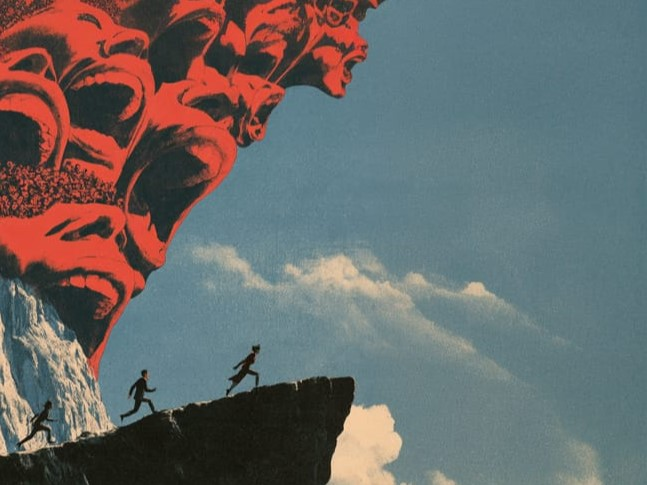
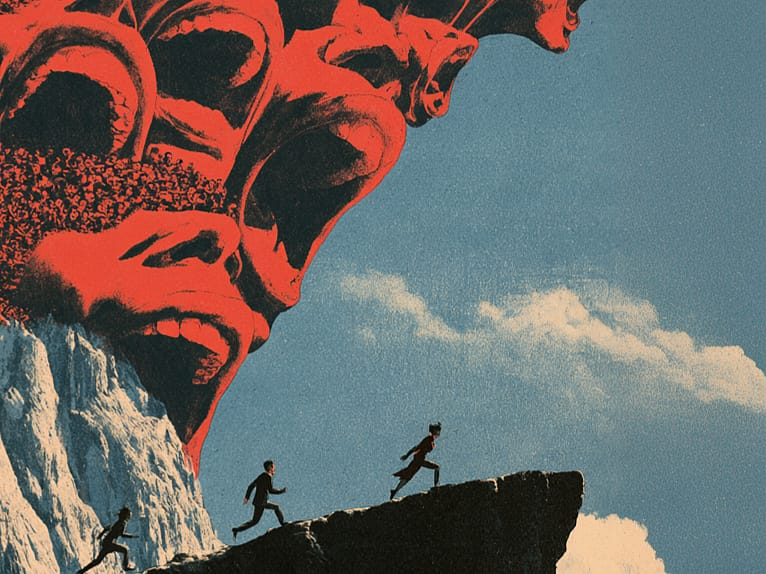
Removed old Eurasia Mobile Cover, Edited Eurasia Description, Adjusted Margins (Spaces between) Zeitecht Entry and Detail Elements

diff --git a/css/style.css b/css/style.css
@@ -294,12 +294,12 @@ body.sparks-page .site-header nav { display: none; }
 @media (max-width: 640px) {
   .entry-list { padding: 20px 20px; }
   .entry { flex-direction: column; padding: 18px 0; border-top-width: 1px; }
-  .entry .thumb, .entry .ph { width: 100%; aspect-ratio: 4/3; margin-bottom: 10px; }
+  .entry .thumb, .entry .ph { width: 100%; aspect-ratio: 4/3; margin-bottom: 0px; }
   .entry .title { font-size: 16.5px; }
-  .entry .desc { font-size: 12px; margin-top: 7px; }
+  .entry .desc { font-size: 12px; margin-top: 15px; }
   .entry .meta { font-weight: bold; font-size: 12px; margin-top: 9px; }
   .entry-detail { font-weight: bold; font-size: 12px; margin-top: 9px;}
-  .entry .link { font-style: italic; font-size: 12px; margin-top: 7px; }
+  .entry .link { font-style: italic; font-size: 12px; margin-top: 15px; }
   .entry .tag-line { font-size: 9.5px; margin-bottom: 9px; }
   .entry .tag-line .divider { margin: 0 5px; }
 }
@@ -323,17 +323,18 @@ body.sparks-page .site-header nav { display: none; }
 .detail-hero { display: flex; gap: 44px; padding: 60px 56px 12px; max-width: var(--max-width); margin: 0 auto; }
 .detail-hero .image, .detail-hero .ph { flex: 0 0 304px; height: 380px; }
 .detail-hero h1 { font-size: 46px; color: var(--ink); font-weight: 600; margin: 0; }
-.detail-hero .tagline { font-size: 26px; color: var(--accent); font-style: italic; margin-top: 16px; }
-.detail-hero .desc { font-size: 25px; line-height: 1.6; margin-top: 24px; }
-.detail-hero .meta { font-size: 22px; color: var(--ink-muted); margin-top: 20px; }
+.detail-hero .tagline { font-size: 26px; color: var(--accent); font-style: italic; margin-top: 30px; }
+.detail-hero .desc { font-size: 25px; line-height: 1.6; margin-top: 10px; }
+.detail-hero .desc p { margin-top:0; }
+.detail-hero .meta { font-size: 25px; color: var(--ink); margin-top: 30px; }
 
 @media (max-width: 640px) {
   .detail-hero { flex-direction: column; padding: 20px 20px 6px; }
   .detail-hero .image, .detail-hero .ph { width: 100%; height: 180px; }
   .detail-hero h1 { font-size: 20px; margin-top: 16px; }
-  .detail-hero .tagline { font-size: 12.5px; margin-top: 8px; }
-  .detail-hero .desc { font-size: 12px; margin-top: 12px; }
-  .detail-hero .meta { font-size: 10.5px; margin-top: 10px; }
+  .detail-hero .tagline { font-size: 12.5px; margin-top: 20px; }
+  .detail-hero .desc { font-size: 12px; margin-top: 5px; }
+  .detail-hero .meta { font-size: 12px; margin-top: 20px; }
 }
 
 /* Info strip: Auszug lesen / Inszenierungsschluessel / PDF-per-email / pricing pointer */

diff --git a/de/zeitecht/entries/eurasia.md b/de/zeitecht/entries/eurasia.md
@@ -24,7 +24,7 @@ permalink: /zeitecht/eurasia/index.html
 
 Anton und Julia leben in einer Welt, in der man dem Wort nicht mehr trauen kann: Progressive Werte und Umweltschutz werden großgeschrieben – aber gleichzeitig vollüberwacht der Staat seine Einwohner und straft Dissidenten durch Folter und Tod.
 
-Julia und Anton suchen Mitstreiter – werden verraten – schließlich gefoltert. Und dabei steht und fällt alles mit der Frage: Worauf kann man vertrauen, wenn bisherige Gewissheiten zur Lüge geworden sind? Wenn man Gut und Böse nicht an ihren Wahlsprüchen erkennen kann? Was ist wirklich der Schlüssel zu einer freien Gesellschaft?
+Julia und Anton suchen Mitstreiter – werden verraten – schließlich gefoltert. Und dabei steht und fällt alles mit der Frage: Worauf kann man vertrauen, wenn bisherige Gewissheiten ad absurdum geführt wurden? Wenn man Gut und Böse nicht an ihren Wahlsprüchen erkennen kann? Wie findet man, in meinungslauten Zeiten, wirklich zu Freiheit und zu Selbstbestimmung?
 
-Das Skript eignet sich besonders für diskutierfreudige, politisch und philosophisch interessierte Klassen. Außerdem gibt es stellenweise Möglichkeiten zur musikalischen und tänzerischen Gestaltung.
+Das Skript eignet sich besonders für diskutierfreudige, politisch und philosophisch interessierte Klassen. Außerdem gibt es stellenweise Möglichkeiten, musikalisch und tänzerisch kreativ zu werden.
 
